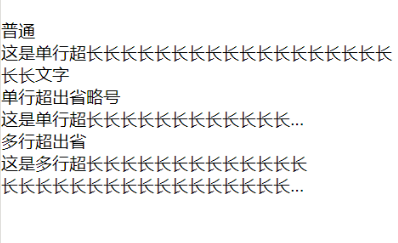
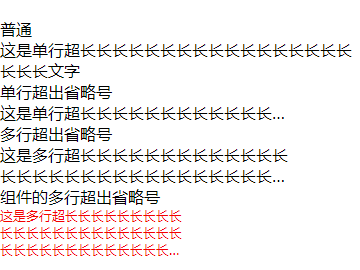
修改微信小程序示例

Changed region(s): [[0.0, 0.0576, 1.0, 0.9506]]

diff --git a/WeChatExamples/1.Text out of range ellipsis/components/text-ellipsis/text-ellipsis.js b/WeChatExamples/1.Text out of range ellipsis/components/text-ellipsis/text-ellipsis.js
@@ -1,0 +1,4 @@
+// components/text-ellipsis/text-ellipsis.js
+Component({
+  externalClasses: ["outside-style"],
+})

diff --git a/WeChatExamples/1.Text out of range ellipsis/README.md b/WeChatExamples/1.Text out of range ellipsis/README.md
@@ -32,3 +32,72 @@
 }
 ```
 
+关于```text-ellipsis```组件的主要代码
+
+[text-ellipsis.js](components/text-ellipsis/text-ellipsis.js)
+
+```js
+Component({
+  externalClasses: ["outside-style"],
+})
+```
+
+[text-ellipsis.wxml](components/text-ellipsis/text-ellipsis.wxml)
+
+```html
+<view class="multi-line outside-style">
+  <slot>
+  </slot>
+</view>
+```
+
+[text-ellipsis.wxss](components/text-ellipsis/text-ellipsis.wxss)
+
+```css
+/* 这里与前面一样 */
+.multi-line {
+  width: 600rpx;
+  display: -webkit-box;
+  overflow: hidden; /*超出部分隐藏*/
+  text-overflow: ellipsis;
+  word-wrap: break-word; /*全部换号*/
+  white-space: normal !important; /*强制换行*/
+  -webkit-line-clamp: 2; /*要显示行数*/
+  -webkit-box-orient: vertical; /*从上向下垂直排列子元素*/
+}
+```
+
+引用组件
+
+[index.json](index/index.json)
+
+```json
+"usingComponents": {
+    "text-ellipsis":"/components/text-ellipsis/text-ellipsis"
+}
+```
+
+使用
+
+[index.wxml](index/index.wxml)
+
+```html
+<text-ellipsis outside-style="outside-style">[文字内容]</text-ellipsis>
+```
+
+[index.wxss](index/index.wxss)
+
+```css
+/* 使用外部class样式 */
+.outside-style{
+  width: 400rpx !important;
+  color: red;
+  -webkit-line-clamp: 3 !important;
+  font-size: 28rpx
+}
+```
+
+
+
+
+

diff --git a/WeChatExamples/README.md b/WeChatExamples/README.md
@@ -2,3 +2,4 @@
 
 * [文字超出省略号表示](1.Text out of range ellipsis/README.md)
 * 
+
